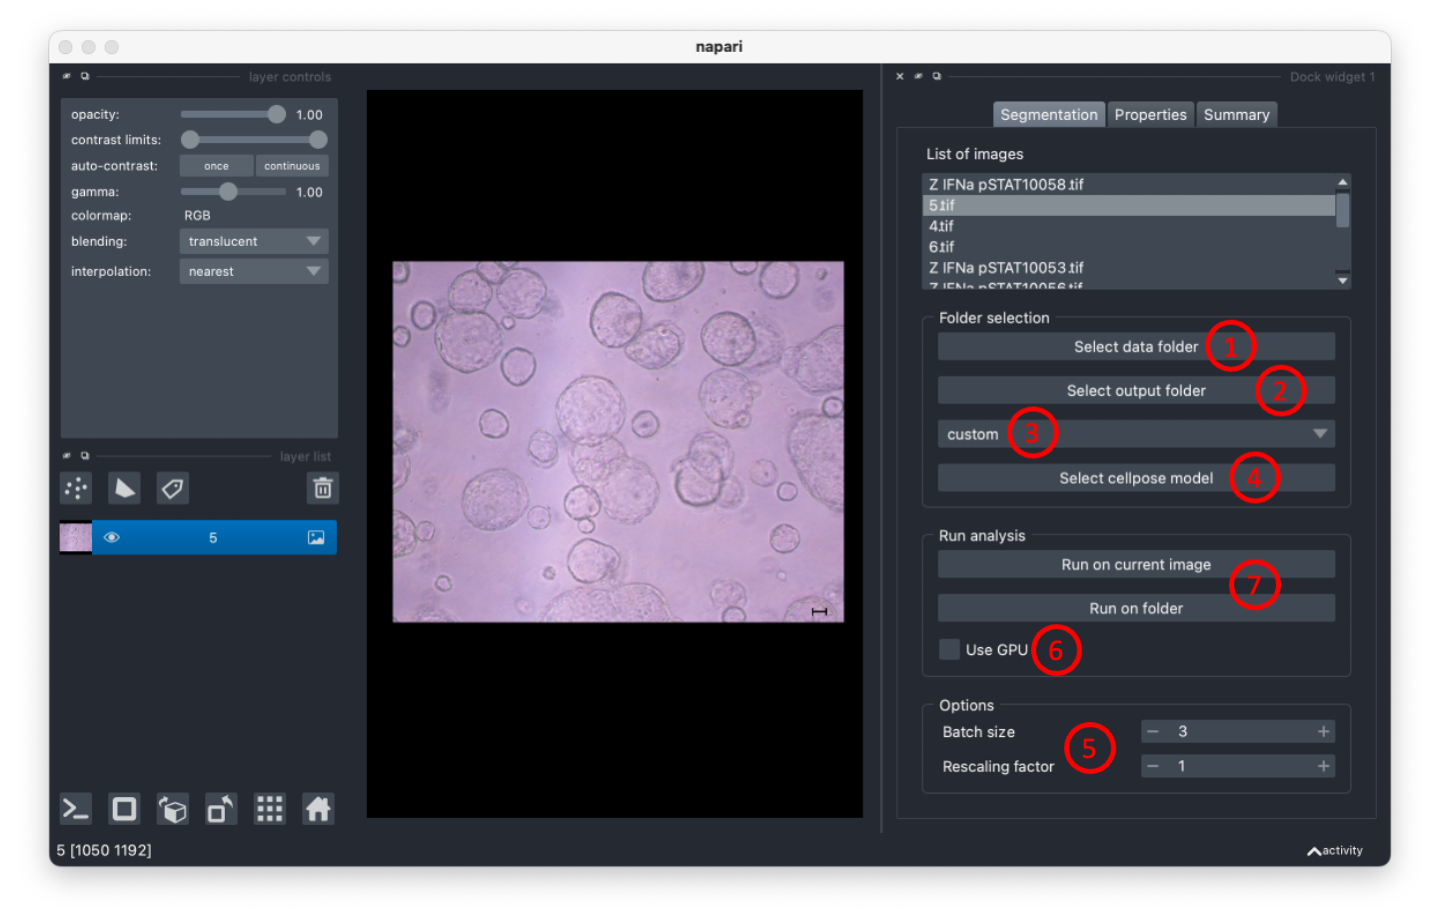
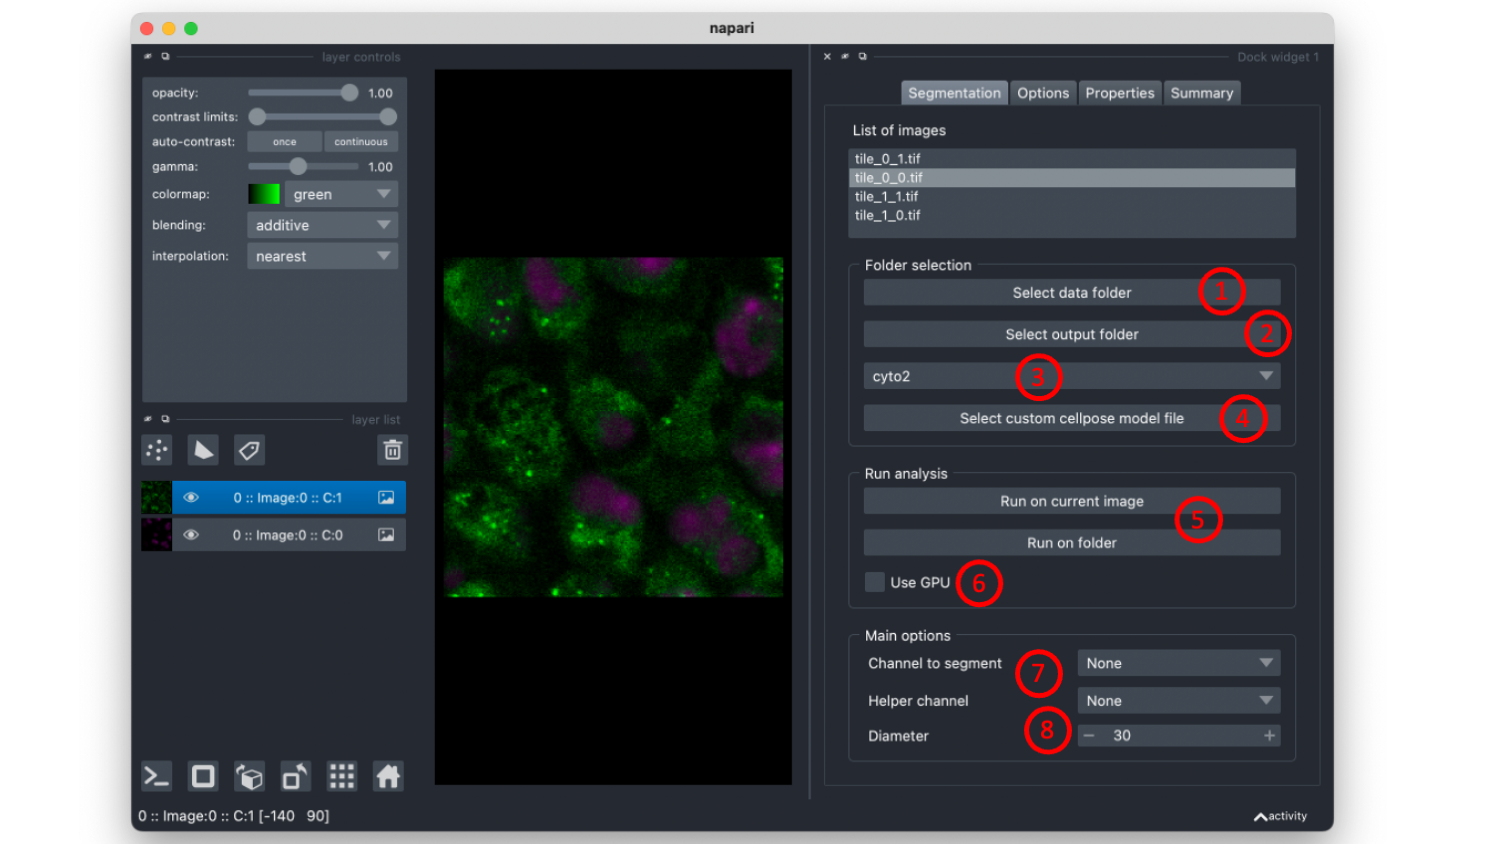
update documentation

diff --git a/README.md b/README.md
@@ -7,7 +7,7 @@
 [![codecov](https://codecov.io/gh/guiwitz/napari-serialcellpose/branch/main/graph/badge.svg)](https://codecov.io/gh/guiwitz/napari-serialcellpose)
 [![napari hub](https://img.shields.io/endpoint?url=https://api.napari-hub.org/shields/napari-serialcellpose)](https://napari-hub.org/plugins/napari-serialcellpose)
 
-This napari plugin allows to segment all images within a folder using cellpose. The cellpose model can be either a custom model or an official cellpose model. In addition, a set of geometrical properties can be visualized as histograms for each image or for the entire folder. The set of properties is currently fix, but we plan to make those selectable.
+This napari plugin allows to segment all images within a folder using cellpose. The cellpose model can be either a custom model or an official cellpose model. In addition, a set of "region properties" can be visualized as histograms for each image or for the entire folder.
 
 This plugin uses the great [napari-skimage-regionprops](https://github.com/haesleinhuepf/napari-skimage-regionprops) plugin to show properties as interactive tables.
 
@@ -39,7 +39,7 @@ Finally you can install cellpose:
     
     pip install cellpose
 
-**Note that it is important to install pytorch before cellpose, otherwise cellpose will install non-GPU dependencies.**
+**Note that it is important to install PyTorch before Cellpose, otherwise Cellpose will install non-GPU dependencies.**
 
 ### Plugin Updates
 
@@ -51,16 +51,26 @@ To update the plugin, you only need to activate the existing environment and ins
 ## Usage: segmentation
 
 The main interface is shown below. The sequence of events should be the following:
-1. Select a folder containing images. Either gray scale images or RGB that are then converted to gray scale. Once selected, the list of files will appear in the window above. When selecting an image, it gets displayed in the viewer.
-2. Select a folder that will contain the output (segmentations and tables)
+1. Select a folder containing images. The list of files within that folder will appear in the area above. You can also just drag and drop a folder or an image in that area. When selecting an image, it gets displayed in the viewer. Images are opened via [aicsimageio](https://allencellmodeling.github.io/aicsimageio/). You can use grayscale images, RGB images or multi-channel images. In the latter case, **make sure each channel opens as a separate layer when you open them using the napari-aicsimagio importer**.
+2. If you want to save the segmentation and tables with properties, select a folder that will contain the output.
 3. Select the type of cellpose model.
-4. If you use a custom model, select it.
-5. Set parameters. If you use an official cellpose model, you can e.g. set the diameter. You can also set how many images are sent together for analysis as a batch (for GPU, this will depend on the memory size. For CPU the effect is marginal).
+4. If you use a custom model, select its location.
+5. Run the analysis on the currently selected image or on all files in the folder.
+### Options
+
 6. Select if you want to use a GPU or not.
-7. Run the analysis on the currently selected image or on all files in the folder.
+7. If you are using multi-channel images, you can specify which channel to segment and optionally which to use as "nuclei" channel to help cell segmentation.
+8. In case you are using one of the built-in models, you can set the estimated diameter of your objects.
+9. In the Options tab you will find a few more options for segmentation, including the two thresholds ```flow_threshold``` and ```cellprob_threshold```. You can also decide to discard objects touching the border.
 
 <img src="https://github.com/guiwitz/napari-serialcellpose/raw/main/illustrations/napari_serialcellpose_gui1.png" alt="image" width="500">
+<img src="https://github.com/guiwitz/napari-serialcellpose/raw/main/illustrations/napari_serialcellpose_gui1b.png" alt="image" width="500">
 
+### Properties
+
+10. After segmentation, properties of the objects can automatically be computed. You can select which properties should be computed in the Options tab. As defined in ```napari-skimage-regionprops``` properties are grouped by types. If you want to measure intensity properties such as mean intensity, you have to specify which channel (```Analysis channel```) you want to perform the measurement on.
+
+### Output
 The results of the analysis are saved in the folder chosen in #2. The segmentation mask is saved with the same name as the original image with the suffix ```_mask.tif```. A table with properties is saved in the subfolder ```tables``` also with the same name as the image with the suffix ```props.csv```.
 ## Usage: post-processing
 
@@ -68,13 +78,17 @@ After the analysis is done, when you select an image, the corresponding segmenta
 
 <img src="https://github.com/guiwitz/napari-serialcellpose/raw/main/illustrations/napari_serialcellpose_gui2.png" alt="image" width="500">
 
-If you head to the **Properties** tab, you will find there two histograms showing the distribution of eccentricity and maximum Feret diameter. Below you find the table containing information for each cell (each line is a cell).
+### Properties
+
+If you head to the **Properties** tab, you will find there two histograms showing the distribution of two properties that you can choose from a list at the top of the window. Below the plot you find the table containing information for each cell (each line is a cell).
 
 As shown below, if you select the box ```show selected```, you can select items in the properties table and it will highlight the corresponding cell in the viewer. If you select the pipet tool, you can also select a cell and see the corresponding line in the table highlighted.
 
 <img src="https://github.com/guiwitz/napari-serialcellpose/raw/main/illustrations/napari_serialcellpose_gui3.png" alt="image" width="500">
 
-Finally if you select the **Summary** tab, and click on ```Load summary```, it will load all data of the given folder and create histograms of eccentricity and Feret diameter. The slider allows to put a threshold on eccentricity in order to select only round cells.
+### Summary
+
+Finally if you select the **Summary** tab, and click on ```Load summary```, it will load all data of the current output folder and create histograms of two properties that can be selected. An additional property can be used for filtering the data. Using the sliders, one can set a minimum and maximum threshold on the "filtering property", which will create a sub-selection of the data.
 
 <img src="https://github.com/guiwitz/napari-serialcellpose/raw/main/illustrations/napari_serialcellpose_gui4.png" alt="image" width="500">
 
